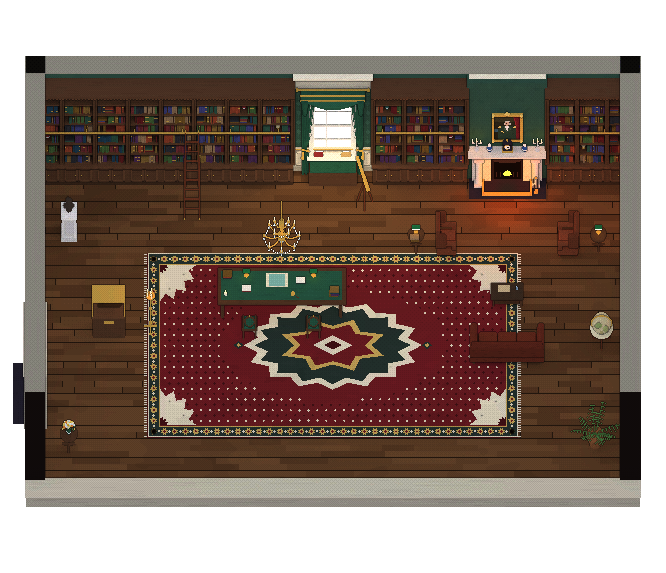
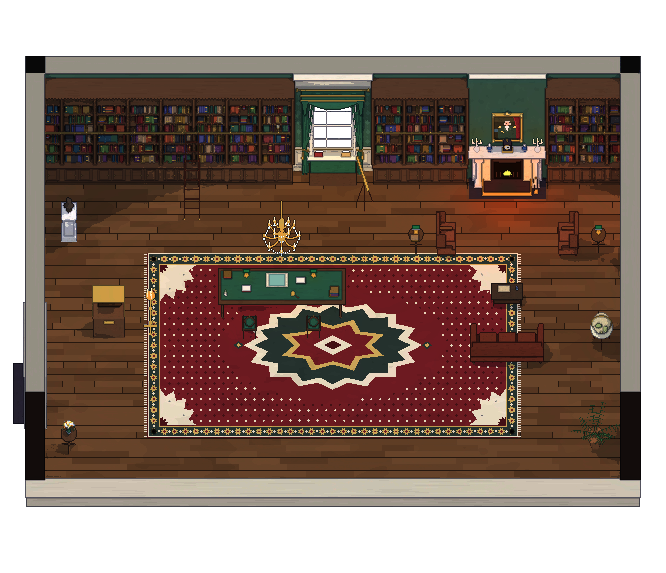
Ashcombe House's library re-rendered in the toy finish: its chandelier and candlesticks stay lit, and a warm night ambient keeps the boards in one even band instead of dark patches
Claude-Session: https://claude.ai/code/session_018nrKRFmqoRAiZo7miU6eXz

diff --git a/tools/bridge-art/scenes/lumar_manor_library.py b/tools/bridge-art/scenes/lumar_manor_library.py
@@ -121,7 +121,7 @@ E.torchere(k, 4.3, 7.0, h=1.7, energy=10)
 for (x, r) in ((4.0, 5.5), (4.5, 10.0), (12.0, 9.5), (16.5, 10.0)):
     k.point_light(x, r, 3.0, '#ffd8a8', 44, radius=0.6, group='lamp')
 
-render(k, OUT)
+render(k, OUT, ambient=('#5a4a40', 1.8))     # a warm night ambient keeps the floor in one band of the toy finish
 
 I = [door('THE HALL', x, y, 'lumar-manor', [24, 8]) for (x, y) in WEST]
 I += [
